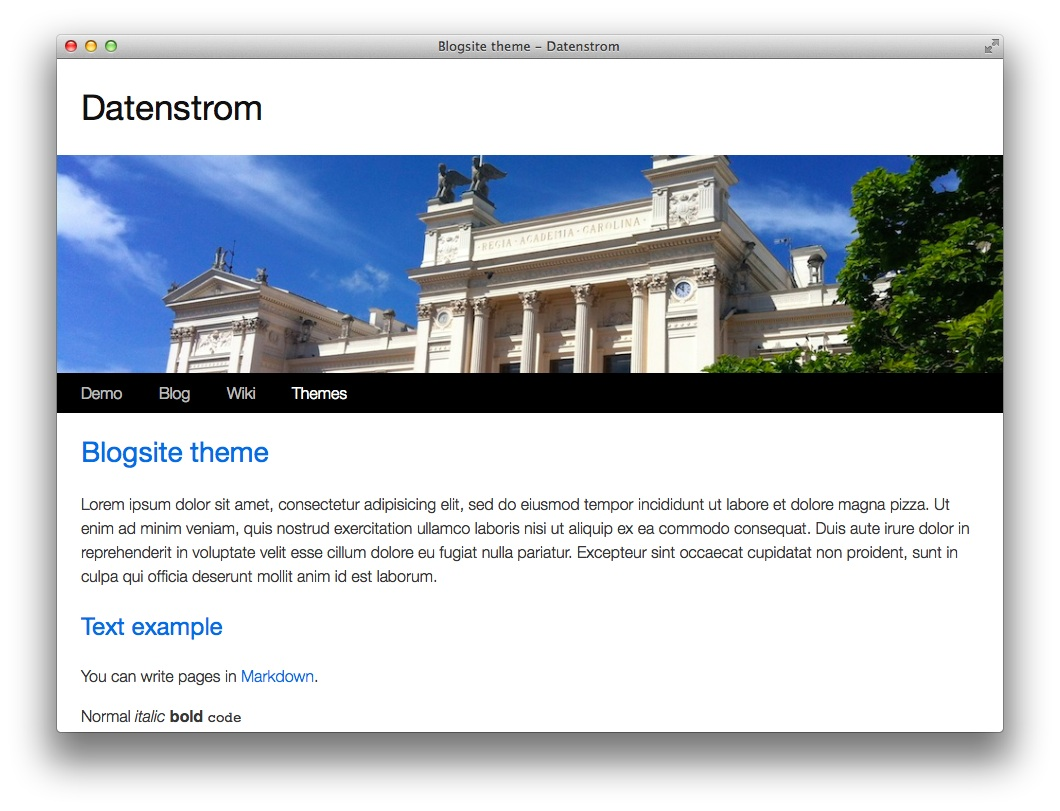
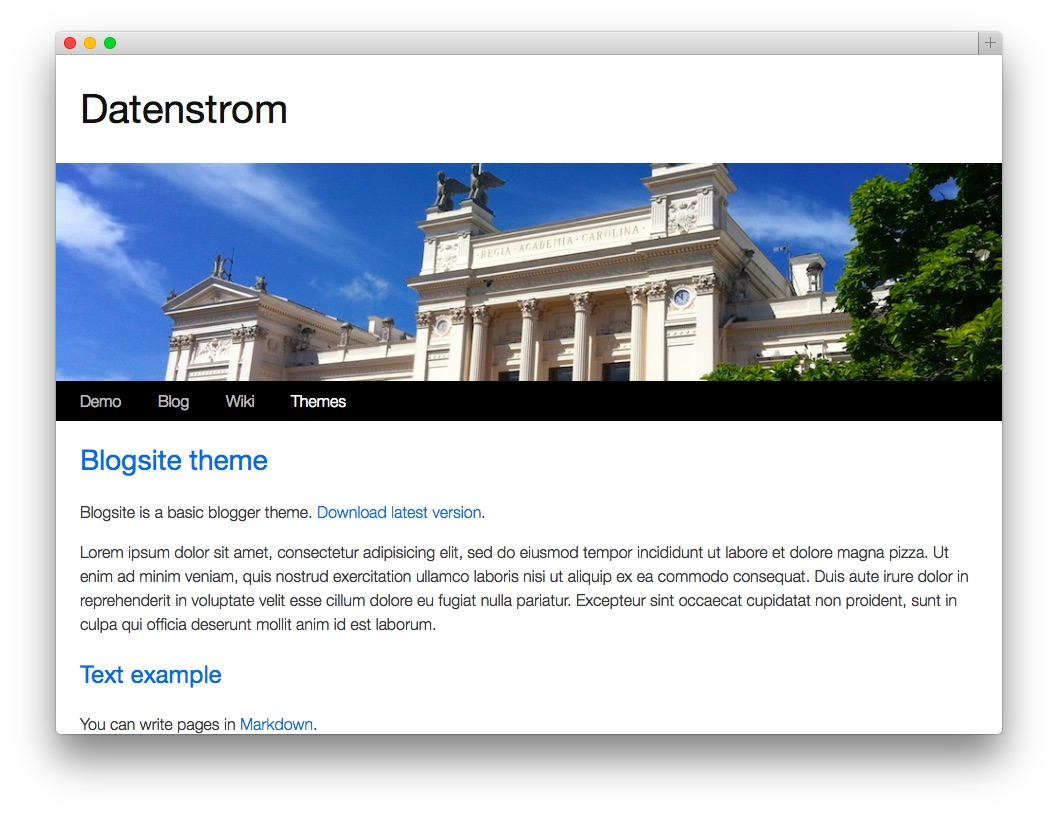
Core update (snippets, themes)

Changed region(s): [[0.0312, 0.0308, 0.9669, 0.9556]]

diff --git a/themes/knowhow/knowhow.css b/themes/knowhow/knowhow.css
@@ -1,54 +1,49 @@
-/* Yellow githubber theme 0.1.8 */
+/* Yellow knowhow theme 0.1.1 */
 
 html, body, div, form, pre, span, tr, th, td { margin:0; padding:0; border:0; vertical-align:baseline; }
-body { 
+body {
 	margin:1em;
 	background-color:#fff; color:#333;
 	font-family:"Helvetica Neue",Helvetica,sans-serif;
-	font-size:0.95em;
+	font-size:1em;
 	font-weight:400;
 	line-height:1.6;
 }
-h1, h2, h3, h4, h5, h6 { color:#07d; font-weight:normal; }
+h1, h2, h3, h4, h5, h6 { color:#333; font-weight:normal; }
 hr { height:1px; background:#ddd; border:0; }
-code { font-size:1.1em; } 
-a { color:#07d; }
-a:hover { color:#07d; text-decoration:underline; }
+code { font-size:1.1em; }
+a { color:#4183c4; }
+a:hover { color:#4183c4; text-decoration:underline; }
 a, img { border:none; text-decoration:none; }
 .page { position:relative; }
-.sitename h1 { margin-top:0em; margin-bottom:0em; font-size:2.5em; }
-.sitename a { color:#111; text-decoration:none; }
-.navigation { position:absolute; top:1.4em; right:0em; }
+.sitename h1 { margin:0.5em 0; font-size:2em; }
+.sitename a { color:#333; text-decoration:none; }
+.navigation { position:absolute; top:0.9em; right:0em; }
 .navigation { margin-bottom:1em; line-height:2em; }
-.navigation a { color:#07d; padding:0 0.3em; display:inline-block; }
-.navigation a:hover { color:#07d; }
+.navigation a { color:#4183c4; padding:0 0.3em; display:inline-block; }
+.navigation a:hover { color:#4183c4; text-decoration:underline; }
 .navigation ul { margin:0 -0.3em; padding:0; list-style:none; }
-.navigation li a.active { color:#07d; }
-.navigation li a.active:hover { color:#07d; }
 .navigation li { display:inline; }
+.navigation li a.active { color:#4183c4; }
+.navigationsearch { margin:1.5em 0; }
+.navigationsearch .search-text { font-family:inherit; font-size:inherit; font-weight:inherit; }
+.navigationsearch .search-text { padding:0.5em; border:2px solid #eee; width:100%; box-sizing:border-box; }
 .pagination { margin:1em 0; }
+.content h1 a:hover { text-decoration:none; }
 .content img { max-width:100%; height:auto; }
 .content form { margin:1em 0; }
 .content .flexible { position:relative; padding-bottom:56.25%; padding-top:30px; }
 .content .flexible iframe { position:absolute; top:0; left:0; width:100%; height:100%; }
-.footer a { color:#333; }
-.footer a:hover { color:#07d; text-decoration:underline; }
+.footer { margin-top:1em; padding-top:1em; border-top:1px solid #eee; }
+.footer a { color:#4183c4; }
+.footer a:hover { color:#4183c4; text-decoration:underline; }
 .left { float:left; margin:0 1em 0 0; }
 .center { display:block; margin:0 auto; }
 .right { float:right; margin:0 0 0 1em; }
 
 /* Reengineered from GitHub */
 
-.file { margin:1em 0; padding:30px; }
-.file { border:1px solid #ddd; border-radius:3px; }
-.meta {
-	margin:-30px -30px 30px -30px; height:40px;
-	background-color:#f7f7f7; color:#333;
-	border-bottom:1px solid #ddd;
-}
-.meta-title { float:left; padding:10px 10px; font-weight:bold; }
-.meta-data { float:left; padding:11px 10px; }
-.meta-actions { float:right; padding:6px; }
+.content { margin:1em 0; }
 .content tt, code, pre { font-family:Consolas,"Liberation Mono",Menlo,Courier,monospace; font-size:0.9em; }
 .content h1, h2, h3, h4, h5, h6 { color:#333; }
 .content a { color:#4183c4; }
@@ -57,22 +52,20 @@ a, img { border:none; text-decoration:none; }
 
 /* Responsive and print */
 
-.page { margin:0 auto; max-width:920px; }
+.page { margin:0 auto; max-width:860px; }
 
-@media screen and (min-width:62em) { 
-	body { width:60em; margin:1em auto; }
+@media screen and (min-width:62em) {
+	body { width:62em; margin:1em auto; }
 }
 @media screen and (max-width:30em) { 
-	body { margin:0.5em; font-size:0.9em; }
-	.content h1, .content h2, .content h3 { font-size:1.3em; }
-	.sitename h1, h1, h2 { font-size:1.3em; }
-	.sitename h1, .sitename, .navigation, .footer, .page { margin:0; padding:0; border:0; }
-	.sitename, .navigation { position:static; height:auto; }
-	.file, .footer { margin:0; padding:0.5em 0; border:0; }
-	.meta { display:none; }
+	body { margin:0.5em; background-color:#fff; font-size:0.9em; }
+	.content { margin:0.5em 0; font-size:1.0em; }
+	.sitename h1, .content h1, .content h2, .content h3 { font-size:1.3em; }
+	.sitename h1, .sitename, .navigation, .page { margin:0; padding:0; border:0; }
+	.navigation { position:static; }
 }
 @media print {
 	body, h1, h2, h3, h4, h5, h6 { background-color:white; color:black; }
 	.page { border:none !important; }
-	.navigation, .meta, .footer { display:none !important; }
+	.navigation, .navigationsub, .navigationtree, .footer { display:none !important; }
 }

diff --git a/themes/flatsite/flatsite.css b/themes/flatsite/flatsite.css
@@ -1,0 +1,93 @@
+/* Yellow flatsite theme 0.1.1 */
+
+@import url(https://fonts.googleapis.com/css?family=Open+Sans:300,400,700);
+html, body, div, form, pre, span, tr, th, td { margin:0; padding:0; border:0; vertical-align:baseline; }
+body {
+	margin:1em;
+	background-color:#fff; color:#717171;
+	font-family:'Open Sans',sans-serif;
+	font-size:1.0em;
+	font-weight:300;
+	line-height:1.5;
+}
+h1, h2, h3, h4, h5, h6 { color:#07d; font-weight:normal; }
+h1 { font-size:2.0em; }
+hr { height:1px; background:#ddd; border:0; }
+code { font-size:1.1em; }
+a { color:#07d; }
+a:hover { color:#07d; text-decoration:underline; }
+a, img { border:none; text-decoration:none; }
+.page { position:relative; }
+.sitename h1 { margin-top:0.5em; margin-bottom:0.5em; }
+.sitename a { color:#111; text-decoration:none; }
+.navigation { position:absolute; top:0.9em; right:0em; }
+.navigation { margin-bottom:1em; line-height:2em; }
+.navigation a { padding:0 0.3em; display:inline-block; }
+.navigation ul { margin:0 -0.3em; padding:0; list-style:none; }
+.navigation li { display:inline; }
+.pagination { margin:1em 0; }
+.content h1 a:hover { text-decoration:none; }
+.content img { max-width:100%; height:auto; }
+.content form { margin:1em 0; }
+.content .flexible { position:relative; padding-bottom:56.25%; padding-top:30px; }
+.content .flexible iframe { position:absolute; top:0; left:0; width:100%; height:100%; }
+.content code { border:1px solid #ddd; border-radius:3px; padding:0 0.5em; }
+.content pre>code { border:none; padding:0; }
+.content pre { border:1px solid #ddd; border-radius:3px; padding:1em; overflow:hidden; }
+.content table th { display:none; }
+.footer { margin-top:2em; }
+.footer a { color:#07d; }
+.footer a:hover { color:#07d; text-decoration:underline; }
+.left { float:left; margin:0 1em 0 0; }
+.center { display:block; margin:0 auto; }
+.right { float:right; margin:0 0 0 1em; }
+
+/* Forms and buttons */
+
+.form-control {
+	margin:0; padding:2px 4px;
+	display:inline-block;
+	background-color:#fff; color:#555;
+	border:1px solid #bbb;
+	border-radius:4px;
+	font-size:0.9em; font-family:inherit; font-weight:normal; line-height:1;
+}
+.btn {
+	margin:0; padding:4px 22px;
+	display:inline-block; min-width:8em;
+	background-color:#eaeaea; color:#333333;
+	background-image:linear-gradient(to bottom, #ffffff, #e1e1e1);
+	background-repeat:repeat-x;
+	border:1px solid #bbb; 
+	border-color:#d1d1d1 #d1d1d1 #aaaaaa;
+	border-radius:4px;
+	outline-offset:-2px;
+	font-size:0.9em; font-family:inherit; font-weight:normal; line-height:1; 
+	text-align:center; text-decoration:none;
+}
+.btn:hover, .btn:focus, .btn:active {
+	color:#333333;
+	background-image:none; 
+	text-decoration:none;
+}
+.btn:active { box-shadow:inset 0 2px 4px rgba(0, 0, 0, 0.1); }
+
+/* Responsive and print */
+
+.page { margin:0 auto; max-width:1000px; }
+
+@media screen and (min-width:62em) { 
+	body { width:60em; margin:1em auto; }
+	.page{ margin:0; max-width:none; }
+}
+@media screen and (max-width:30em) { 
+	body { margin:0.5em; font-size:0.9em; }
+	.sitename h1, h1, h2 { font-size:1.2em;  }
+	.sitename h1, .header, .navigation, .footer, .page { margin:0; padding:0; }
+	.navigation { position:static; }
+}
+@media print {
+	body, h1, h2, h3, h4, h5, h6 { background-color:white; color:black; }
+	.page { border:none !important; }
+	.navigation, .navigationsub, .navigationtree, .footer { display:none !important; }
+}

diff --git a/themes/blogsite/blogsite.css b/themes/blogsite/blogsite.css
@@ -1,4 +1,4 @@
-/* Yellow blogsite theme 0.1.8 */
+/* Yellow blogsite theme 0.1.9 */
 
 html, body, div, form, pre, span, tr, th, td { margin:0; padding:0; border:0; vertical-align:baseline; }
 body {
@@ -18,7 +18,7 @@ a, img { border:none; text-decoration:none; }
 .yellow { margin:0 0.5em; }
 .yellow a:hover { color:#373737; text-decoration:none; }
 .sitename { padding:0.5em 1.5em; }
-.sitename h1 { margin:0.4em 0; font-size:2.2em; }
+.sitename h1 { margin:0.4em 0; font-size:2.5em; }
 .sitename a { color:#111; text-decoration:none; }
 .sitename-banner {
 	padding-top:23%; 
@@ -67,5 +67,5 @@ a, img { border:none; text-decoration:none; }
 @media print {
 	body, h1, h2, h3, h4, h5, h6 { background-color:white; color:black; }
 	.page { border:none !important; }
-	.sitename-banner, .navigation, .footer { display:none !important; }
+	.sitename-banner, .navigation, .navigationsub, .navigationtree, .footer { display:none !important; }
 }

diff --git a/snippets/breadcrumbs/breadcrumbs.php b/snippets/breadcrumbs/breadcrumbs.php
@@ -1,6 +1,6 @@
 <?php list($name, $separator) = $yellow->getSnippetArgs() ?>
 <?php if(!$separator) $separator = "&gt;" ?>
-<div class="content">
+<div class="breadcrumbs">
 <p>
 <?php foreach($yellow->pages->path($yellow->page->getLocation(), true) as $page): ?>
 <a href="<?php echo $page->getLocation() ?>"><?php echo $page->getHtml("titleNavigation") ?></a> <?php if($page->getLocation() != $yellow->page->getLocation()) echo $separator ?> 

diff --git a/snippets/navigationsub/navigationsub.php b/snippets/navigationsub/navigationsub.php
@@ -2,7 +2,7 @@
 <?php $page = $yellow->page->getParentTop(false) ?>
 <?php if($page) $pages = $page->getChildren() ?>
 <?php if(count($pages)): ?>
-<div class="navigation">
+<div class="navigationsub">
 <ul>
 <?php foreach($pages as $page): ?>
 <li><a<?php echo $page->isActive() ? " class=\"active\"" : "" ?> href="<?php echo $page->getLocation() ?>"><?php echo $page->getHtml("titleNavigation") ?></a></li>

diff --git a/snippets/navigationsearch/navigationsearch.php b/snippets/navigationsearch/navigationsearch.php
@@ -1,0 +1,6 @@
+<div class="navigationsearch" ?>
+<form class="search-form" action="<?php echo $yellow->page->base ?>/search/" method="post">
+<input class="search-text" type="text" name="query" placeholder="<?php echo $yellow->text->getHtml("searchButton") ?>" />
+<input type="hidden" name="clean-url" />
+</form>
+</div>

diff --git a/snippets/languagesite/languagesite.php b/snippets/languagesite/languagesite.php
@@ -1,4 +1,4 @@
-<div class="language">
+<div class="languagesite">
 <ul>
 <?php foreach($yellow->pages->translation("/") as $page): ?>
 <li><a href="<?php echo $page->getLocation() ?>"><?php echo $yellow->text->getTextHtml("languageDescription", $page->get("language")) ?></a></li>

diff --git a/snippets/navigationtree/navigationtree.php b/snippets/navigationtree/navigationtree.php
@@ -1,7 +1,7 @@
 <?php list($name, $pages, $level) = $yellow->getSnippetArgs() ?>
 <?php if(!$pages) $pages = $yellow->pages->top() ?>
 <?php if(!$level): ?>
-<div class="navigation">
+<div class="navigationtree">
 <?php endif ?>
 <ul>
 <?php foreach($pages as $page): ?>

diff --git a/snippets/navigationsearch/README.md b/snippets/navigationsearch/README.md
@@ -1,0 +1,30 @@
+Navigationsearch snippet
+========================
+Website navigation with search bar.
+
+How do I install this?
+----------------------
+1. Download and install [Yellow](https://github.com/markseu/yellowcms/).  
+2. Download and install [Yellow search template](https://github.com/markseu/yellowcms-extensions/blob/master/templates/search/README.md).  
+3. Download [navigationsearch.php](navigationsearch.php?raw=true), copy into your system/snippets folder.  
+4. Use the snippet on your website, edit templates in your system/templates folder.
+5. Customise style sheets in your system/themes folder.
+
+To uninstall delete the snippet and remove it from templates.
+
+Example
+-------
+Template with navigation and search bar:
+
+    <?php $yellow->snippet("header") ?>
+    <?php $yellow->snippet("sitename") ?>
+    <?php $yellow->snippet("navigation") ?>
+    <?php $yellow->snippet("navigationsearch") ?>
+    <?php $yellow->snippet("content") ?>
+    <?php $yellow->snippet("footer") ?>
+
+Style for search bar:
+
+    .navigationsearch { margin:1.5em 0; }
+    .navigationsearch .search-text { font-family:inherit; font-size:inherit; font-weight:inherit; }
+    .navigationsearch .search-text { padding:0.5em; border:2px solid #eee; width:100%; box-sizing:border-box; }

diff --git a/snippets/navigationsub/README.md b/snippets/navigationsub/README.md
@@ -7,6 +7,7 @@ How do I install this?
 1. Download and install [Yellow](https://github.com/markseu/yellowcms/).  
 2. Download [navigationsub.php](navigationsub.php?raw=true), copy into your system/snippets folder.  
 3. Use the snippet on your website, edit templates in your system/templates folder.
+4. Customise style sheets in your system/themes folder.
 
 To uninstall delete the snippet and remove it from templates.
 
@@ -20,3 +21,12 @@ Template with navigation and sub navigation:
     <?php $yellow->snippet("navigationsub") ?>
     <?php $yellow->snippet("content") ?>
     <?php $yellow->snippet("footer") ?>
+
+Style for sub navigation:
+
+    .page { position:relative; }
+    .navigationsub { position:absolute; top:2.9em; right:0em; }
+    .navigationsub { margin-bottom:1em; line-height:2em; }
+    .navigationsub a { padding:0 0.3em; display:inline-block; }
+    .navigationsub ul {  margin:0 -0.3em; padding:0; list-style:none; }
+    .navigationsub li { display:inline; }

diff --git a/themes/knowhow/README.md b/themes/knowhow/README.md
@@ -1,0 +1,16 @@
+Knowhow theme 0.1.1
+===================
+Knowhow is a theme for a GitHub-like knowledge base.
+
+![Screenshot](knowhow-screenshot.jpg?raw=true)
+
+How do I install this?
+----------------------
+1. Download and install [Yellow](https://github.com/markseu/yellowcms/).  
+2. Download and install [Yellow search template](https://github.com/markseu/yellowcms-extensions/blob/master/templates/search/README.md).  
+3. Download [knowhow.css](knowhow.css?raw=true), copy into your system/themes folder.  
+4. Download [knowhow.php](knowhow.php?raw=true), copy into your system/templates folder.  
+5. Download [navigationsearch.php](https://github.com/markseu/yellowcms-extensions/blob/master/snippets/navigationsearch/navigationsearch.php?raw=true), copy into your system/snippets folder. 
+6. Use the theme, open file `system/config/config.ini`, change `theme = knowhow` and `template = knowhow`.  
+
+To uninstall delete the theme files and set default settings.

diff --git a/themes/blogsite/README.md b/themes/blogsite/README.md
@@ -1,4 +1,4 @@
-Blogsite theme 0.1.8
+Blogsite theme 0.1.9
 ====================
 Blogsite is a basic blogger theme. 
 
@@ -8,6 +8,6 @@ How do I install this?
 ----------------------
 1. Download and install [Yellow](https://github.com/markseu/yellowcms/).  
 2. Download [blogsite.css](blogsite.css?raw=true) and [blogsite.jpg](blogsite.jpg?raw=true), copy both files into your system/themes folder.  
-3. Use the theme on your website, open file `system/config/config.ini` and change `theme = blogsite`.  
+3. Use the theme, open file `system/config/config.ini` and change `theme = blogsite`.  
 
 To uninstall delete the theme files and set default settings.
